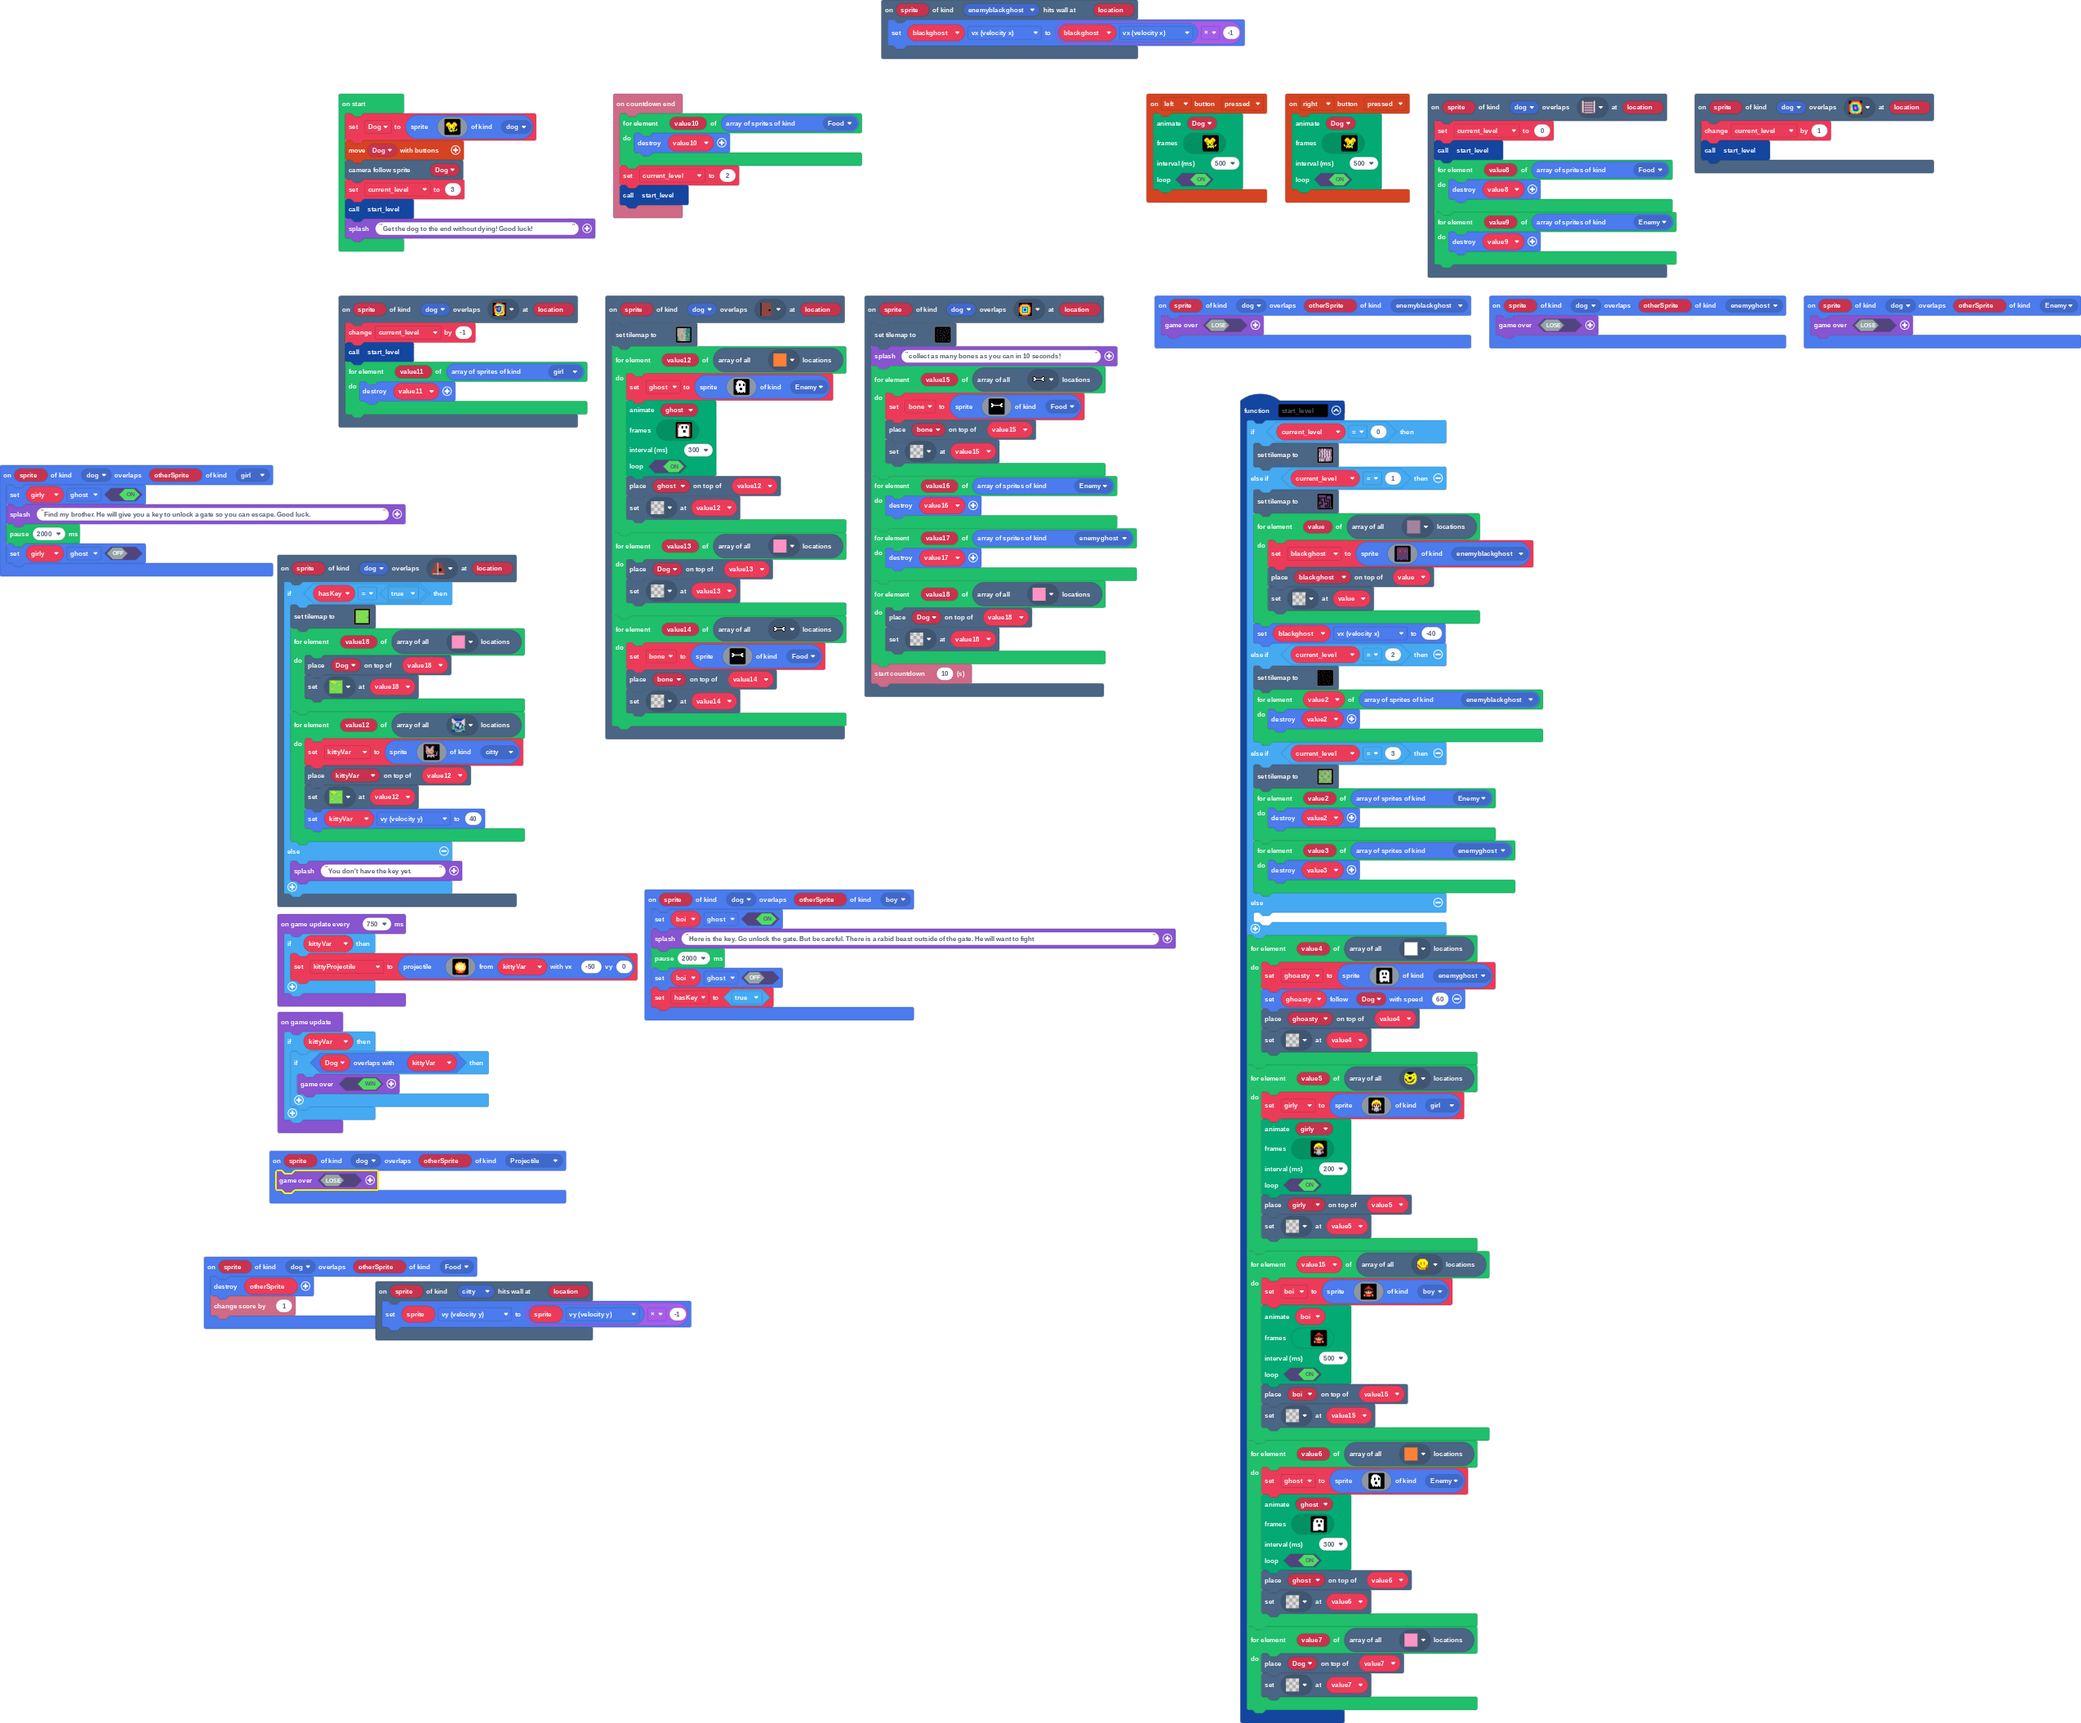
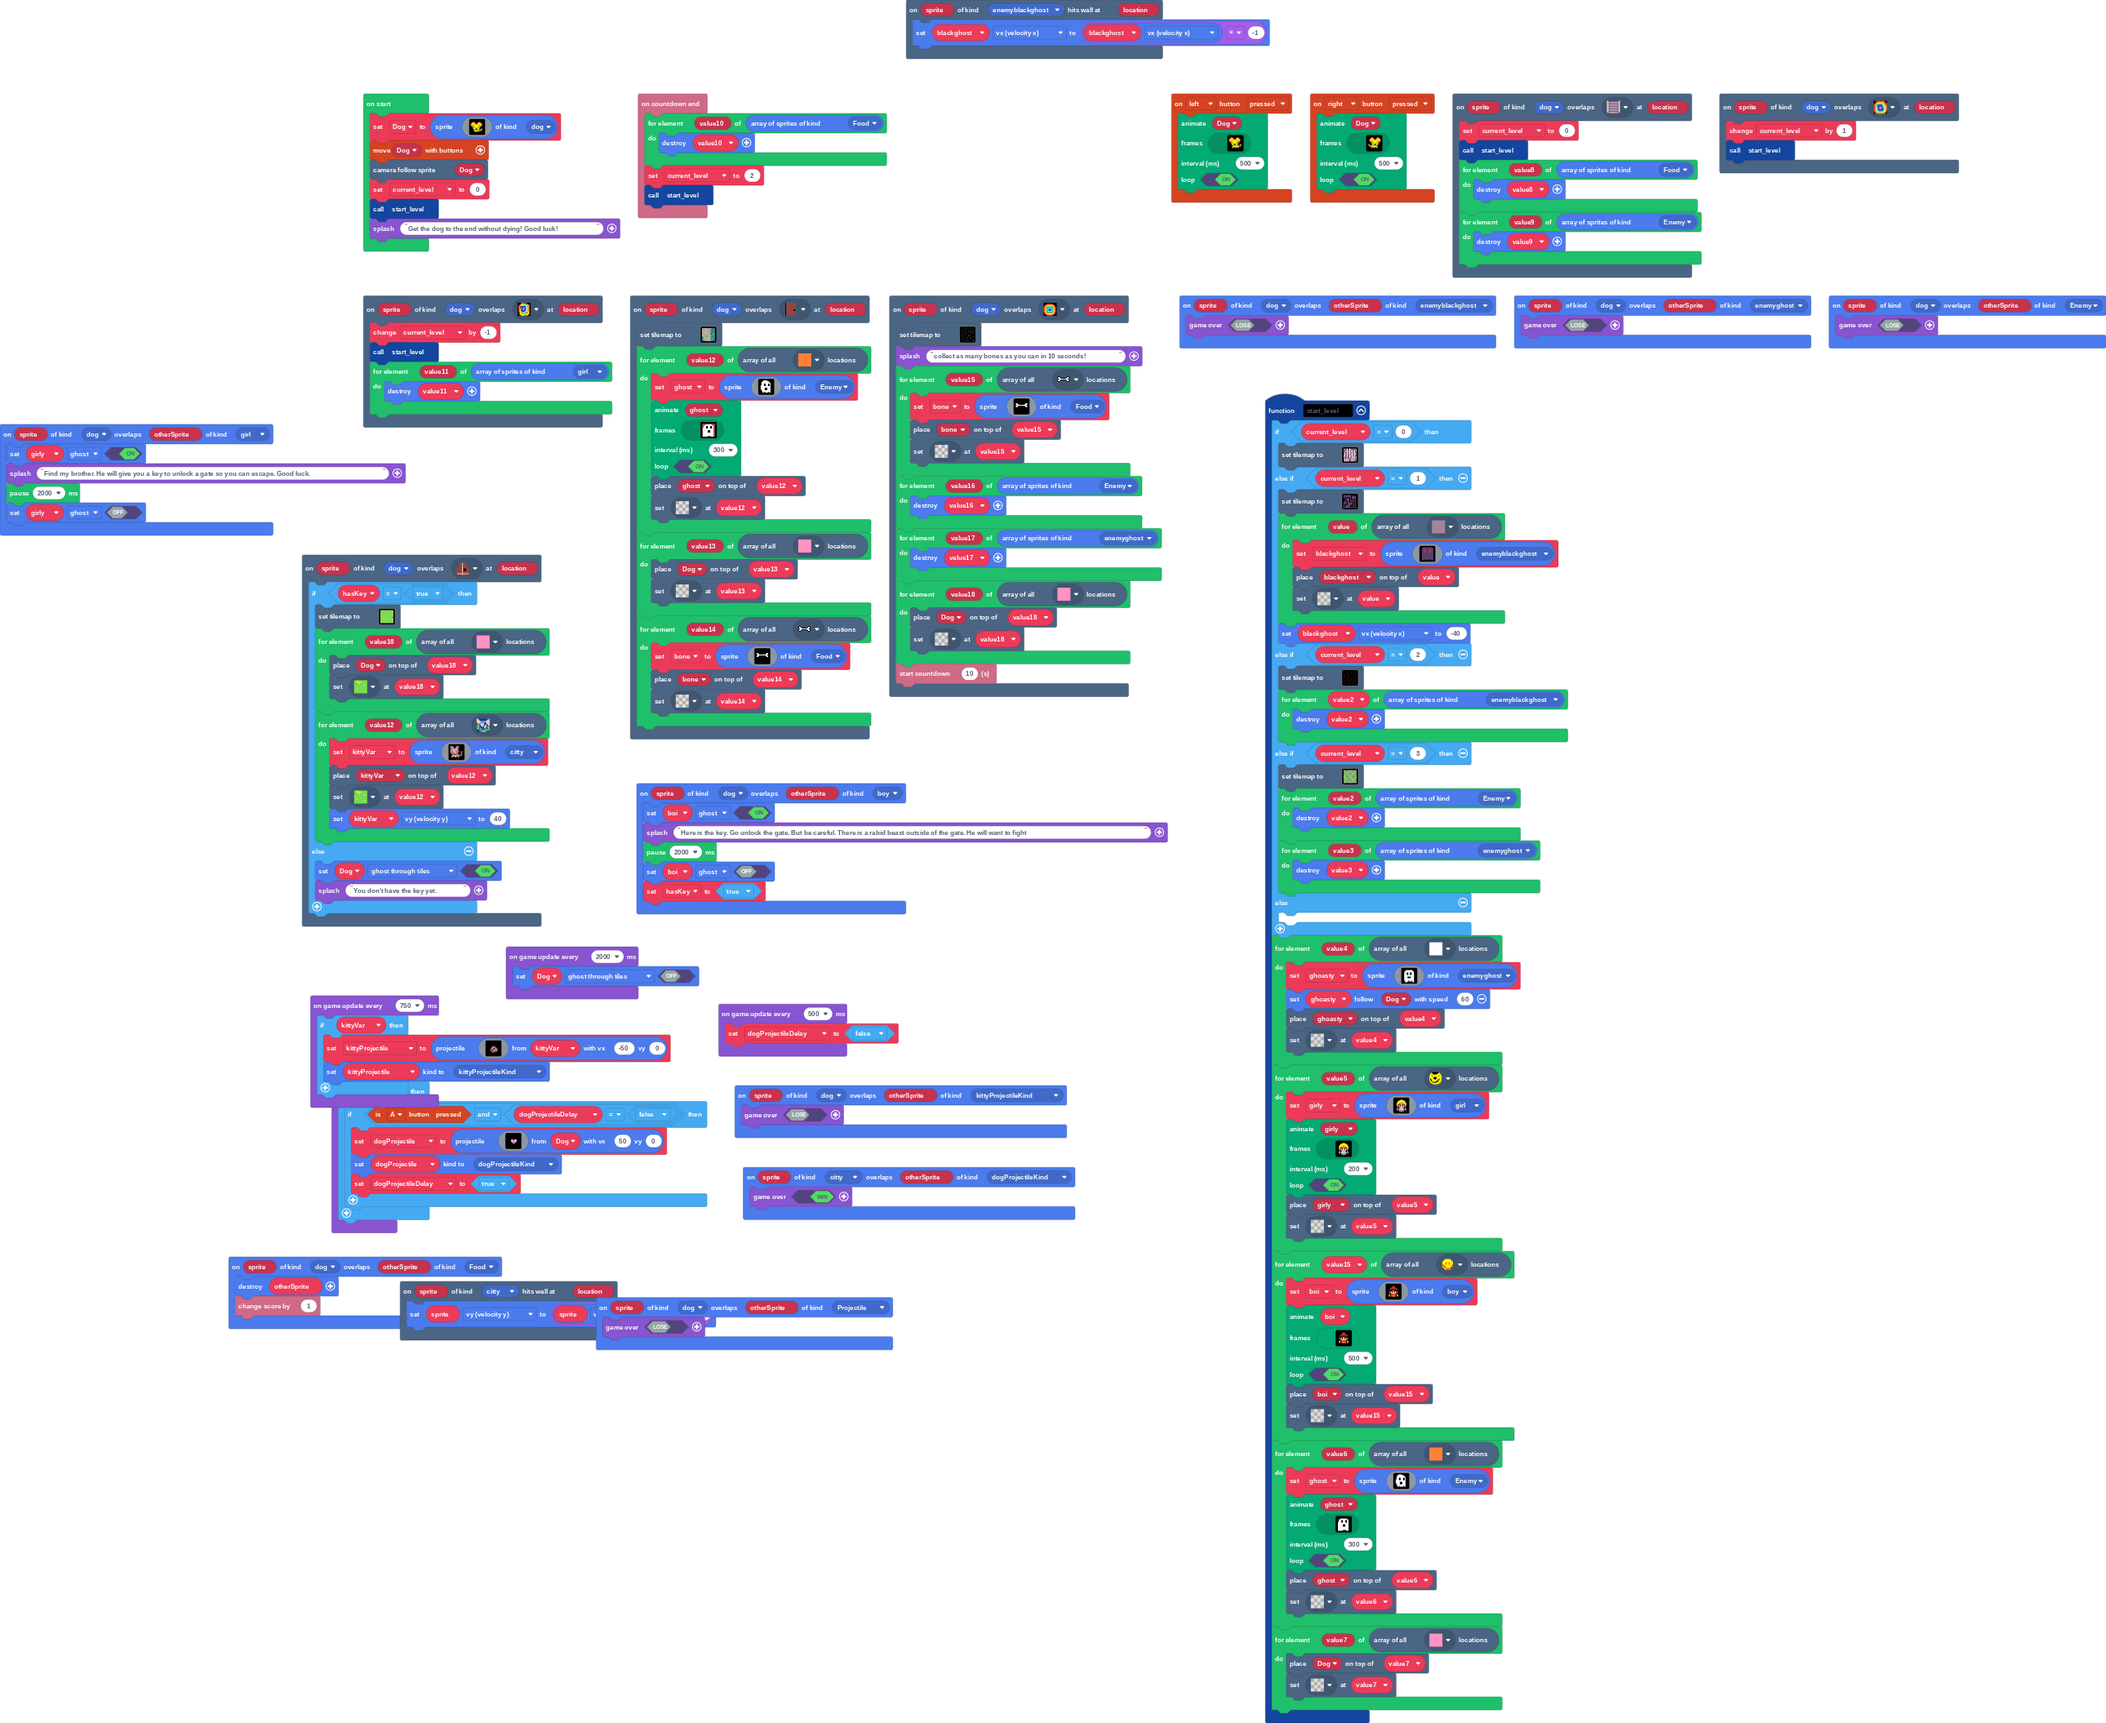
Update main.blocks, main.ts, tilemap.g.jres, tilemap.g.ts

diff --git a/tilemap.g.ts b/tilemap.g.ts
@@ -346,8 +346,19 @@ namespace myTiles {
 . . . . . . . . . . . . . . . . 
 . . . . . . . . . . . . . . . . 
 `, [myTiles.transparency16], TileScale.Sixteen);
+            case "level15":
+            case "level15":return tiles.createTilemap(hex`0800080003030303030302030303030303030303030303030303030303030203030303030103030303030304030303030303030203030303030303030203030303030303`, img`
+. . . . . . . 2 
+. . . . . . . . 
+. . . . . . . . 
+. . . . . . . . 
+. . . . . . . . 
+. . . . . . . . 
+. . . . . . . . 
+. . . . . . . 2 
+`, [myTiles.transparency16,myTiles.tile6,sprites.castle.tileGrass2,sprites.castle.tileGrass1,myTiles.tile12], TileScale.Sixteen);
             case "level5":
[2 lines of base64/hex data omitted]
 ..222222.................22222
 2.2222222..2222222222222......
 2..2222222.222222..22222.22222
@@ -379,17 +390,6 @@ namespace myTiles {
 2.2222....222222..2....2.....2
 2.......222222222...22.22222..
 `, [myTiles.transparency16,myTiles.tile11,sprites.castle.tilePath5,myTiles.tile6,myTiles.tile13,myTiles.tile10,myTiles.tile1,myTiles.tile3], TileScale.Sixteen);
-            case "level15":
-            case "level15":return tiles.createTilemap(hex`0800080003030303030302030303030303030303030303030303030303030203030303030103030303030304030303030303030203030303030303030203030303030303`, img`
-. . . . . . . 2 
-. . . . . . . . 
-. . . . . . . . 
-. . . . . . . . 
-. . . . . . . . 
-. . . . . . . . 
-. . . . . . . . 
-. . . . . . . 2 
-`, [myTiles.transparency16,myTiles.tile6,sprites.castle.tileGrass2,sprites.castle.tileGrass1,myTiles.tile12], TileScale.Sixteen);
         }
         return null;
     })

diff --git a/main.ts b/main.ts
@@ -7,6 +7,8 @@ namespace SpriteKind {
     export const enemyblackghost = SpriteKind.create()
     export const boy = SpriteKind.create()
     export const citty = SpriteKind.create()
+    export const kittyProjectileKind = SpriteKind.create()
+    export const dogProjectileKind = SpriteKind.create()
 }
 sprites.onOverlap(SpriteKind.dog, SpriteKind.boy, function (sprite, otherSprite) {
     boi.setFlag(SpriteFlag.Ghost, true)
@@ -57,6 +59,7 @@ scene.onOverlapTile(SpriteKind.dog, assets.tile`myTile1`, function (sprite, loca
             kittyVar.vy = 40
         }
     } else {
+        Dog.setFlag(SpriteFlag.GhostThroughTiles, true)
         game.splash("You don't have the key yet. ")
     }
 })
@@ -115,6 +118,9 @@ controller.left.onEvent(ControllerButtonEvent.Pressed, function () {
 })
 sprites.onOverlap(SpriteKind.dog, SpriteKind.enemyghost, function (sprite, otherSprite) {
     game.over(false)
+})
+sprites.onOverlap(SpriteKind.citty, SpriteKind.dogProjectileKind, function (sprite, otherSprite) {
+    game.over(true)
 })
 info.onCountdownEnd(function () {
     for (let value10 of sprites.allOfKind(SpriteKind.Food)) {
@@ -501,6 +507,9 @@ function start_level () {
         tiles.setTileAt(value7, assets.tile`transparency16`)
     }
 }
+sprites.onOverlap(SpriteKind.dog, SpriteKind.kittyProjectileKind, function (sprite, otherSprite) {
+    game.over(false)
+})
 sprites.onOverlap(SpriteKind.dog, SpriteKind.Food, function (sprite, otherSprite) {
     otherSprite.destroy()
     info.changeScoreBy(1)
@@ -664,6 +673,8 @@ scene.onOverlapTile(SpriteKind.dog, assets.tile`myTile0`, function (sprite, loca
     info.startCountdown(10)
 })
 let kittyProjectile: Sprite = null
+let dogProjectile: Sprite = null
+let dogProjectileDelay = false
 let bone: Sprite = null
 let ghost: Sprite = null
 let girly: Sprite = null
@@ -692,13 +703,32 @@ Dog = sprites.create(img`
     `, SpriteKind.dog)
 controller.moveSprite(Dog)
 scene.cameraFollowSprite(Dog)
-current_level = 3
+current_level = 0
 start_level()
 game.splash("Get the dog to the end without dying! Good luck!")
 game.onUpdate(function () {
     if (kittyVar) {
-        if (Dog.overlapsWith(kittyVar)) {
-            game.over(true)
+        if (controller.A.isPressed() && dogProjectileDelay == false) {
+            dogProjectile = sprites.createProjectileFromSprite(img`
+                . . . . . . . . . . . . . . . . 
+                . . . . . . . . . . . . . . . . 
+                . . . . . . . . . . . . . . . . 
+                . . . . . . . . . . . . . . . . 
+                . . . . . . . . . . . . . . . . 
+                . . . . . f f f . f f f . . . . 
+                . . . . f 3 3 3 f 3 3 3 f . . . 
+                . . . . f 3 3 3 3 3 1 3 f . . . 
+                . . . . f 3 3 3 3 3 3 3 f . . . 
+                . . . . . f 3 b b b 3 f . . . . 
+                . . . . . f f b b b f f . . . . 
+                . . . . . . f f b f f . . . . . 
+                . . . . . . . f f f . . . . . . 
+                . . . . . . . . . . . . . . . . 
+                . . . . . . . . . . . . . . . . 
+                . . . . . . . . . . . . . . . . 
+                `, Dog, 50, 0)
+            dogProjectile.setKind(SpriteKind.dogProjectileKind)
+            dogProjectileDelay = true
         }
     }
 })
@@ -707,20 +737,27 @@ game.onUpdateInterval(750, function () {
         kittyProjectile = sprites.createProjectileFromSprite(img`
             . . . . . . . . . . . . . . . . 
             . . . . . . . . . . . . . . . . 
-            . . . . . 4 4 4 4 4 . . . . . . 
-            . . . 4 4 4 5 5 5 d 4 4 4 4 . . 
-            . . 4 d 5 d 5 5 5 d d d 4 4 . . 
-            . . 4 5 5 1 1 1 d d 5 5 5 4 . . 
-            . 4 5 5 5 1 1 1 5 1 1 5 5 4 4 . 
-            . 4 d d 1 1 5 5 5 1 1 5 5 d 4 . 
-            . 4 5 5 1 1 5 1 1 5 5 d d d 4 . 
-            . 2 5 5 5 d 1 1 1 5 1 1 5 5 2 . 
-            . 2 d 5 5 d 1 1 1 5 1 1 5 5 2 . 
-            . . 2 4 d d 5 5 5 5 d d 5 4 . . 
-            . . . 2 2 4 d 5 5 d d 4 4 . . . 
-            . . 2 2 2 2 2 4 4 4 2 2 2 . . . 
-            . . . 2 2 4 4 4 4 4 4 2 2 . . . 
-            . . . . . 2 2 2 2 2 2 . . . . . 
+            . . . . . . . . . . . . . . . . 
+            . . . . . . . . . . . . . . . . 
+            . . . . . . . . . . . . . . . . 
+            . . . . . . . e e e . . . . . . 
+            . . . . . . d b d d . . . . . . 
+            . . . . . e b d f e d e . . . . 
+            . . . . e b b b f f d e e . . . 
+            . . . . b b f d b b d d e . . . 
+            . . . . e b f f b d f e d . . . 
+            . . . . . e d d e b b d . . . . 
+            . . . . . . e e e e . . . . . . 
+            . . . . . . . e . . . . . . . . 
+            . . . . . . . . . . . . . . . . 
+            . . . . . . . . . . . . . . . . 
             `, kittyVar, -50, 0)
+        kittyProjectile.setKind(SpriteKind.kittyProjectileKind)
     }
+})
+game.onUpdateInterval(2000, function () {
+    Dog.setFlag(SpriteFlag.GhostThroughTiles, false)
+})
+game.onUpdateInterval(500, function () {
+    dogProjectileDelay = false
 })
